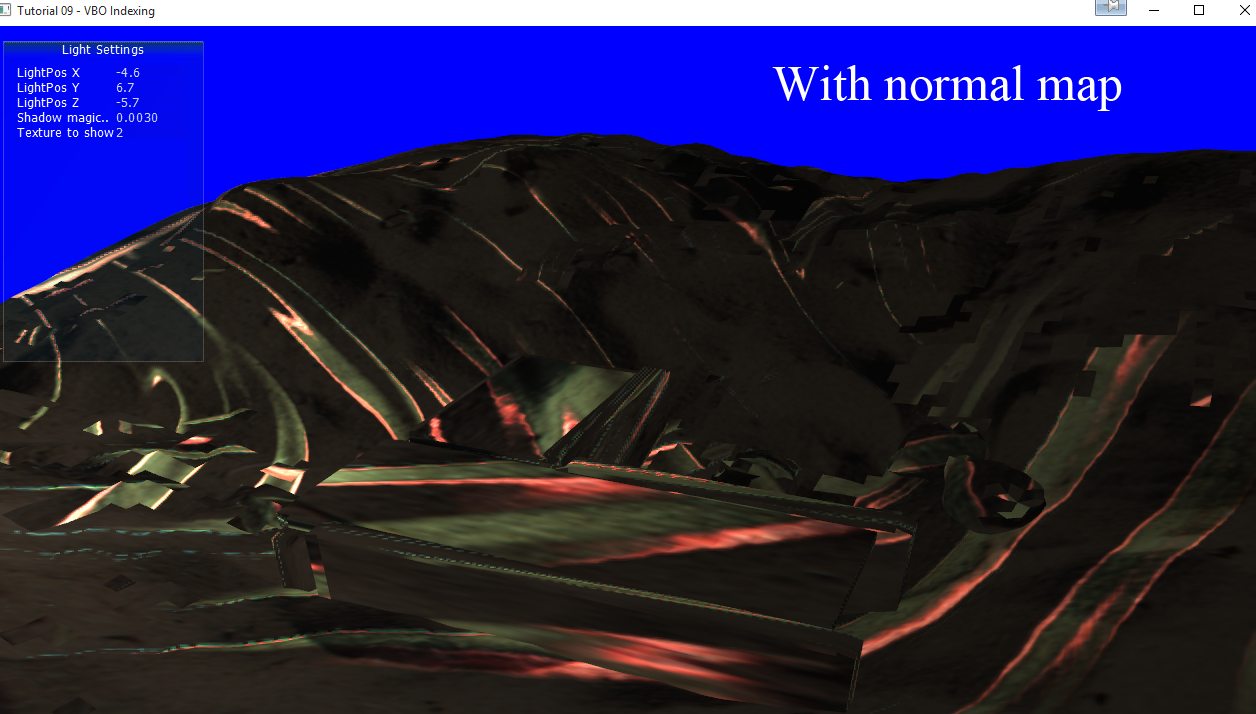
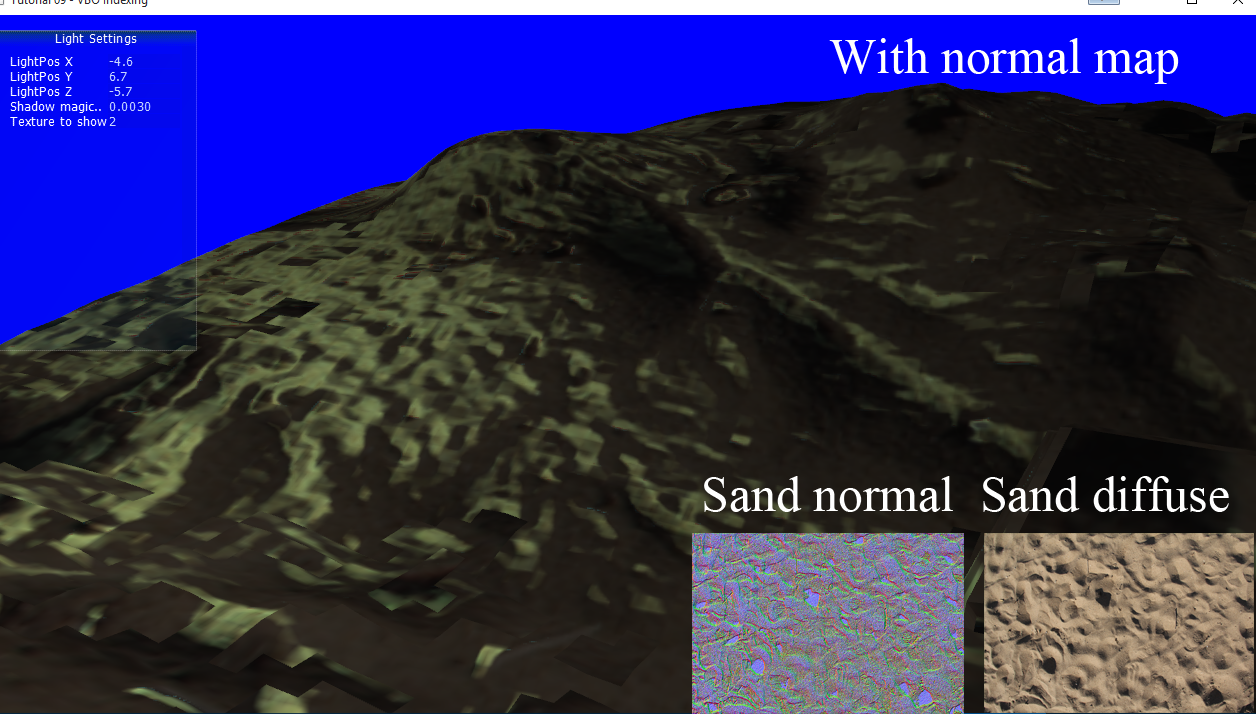
Fresnel effect

diff --git a/Advanced Computer Graphics/Lighting_Basecode/tutorial09_vbo_indexing/tutorial09_AssImp.cpp b/Advanced Computer Graphics/Lighting_Basecode/tutorial09_vbo_indexing/tutorial09_AssImp.cpp
@@ -356,7 +356,7 @@ int main( void )
 // ########### Load the textures ################ // choose textures HERE
 
 	// LOAD TEXTURE (5)
-	GLuint testTexture = loadSoil("stripes_normal.jpg", contentPath.c_str());
+	GLuint normalMapTexure1 = loadSoil("sand_normal.DDS", contentPath.c_str());
 	check_gl_error();
 	
 	GLuint Texture1 = loadSoil("spongebob.DDS", contentPath.c_str());
@@ -414,7 +414,7 @@ int main( void )
 			tex = Texture1;
 		}
 
-		RenderState obj; obj.set(i, 0, tex, ndotl_ndotv, ndotl_ndoth, ndotl_vdotl, renderTextureIds[1], testTexture);
+		RenderState obj; obj.set(i, 0, tex, ndotl_ndotv, ndotl_ndoth, ndotl_vdotl, renderTextureIds[1], normalMapTexure1);
 		
 		// LOAD TEXTURE (7)
 		//obj.testTexId = testTexture;
